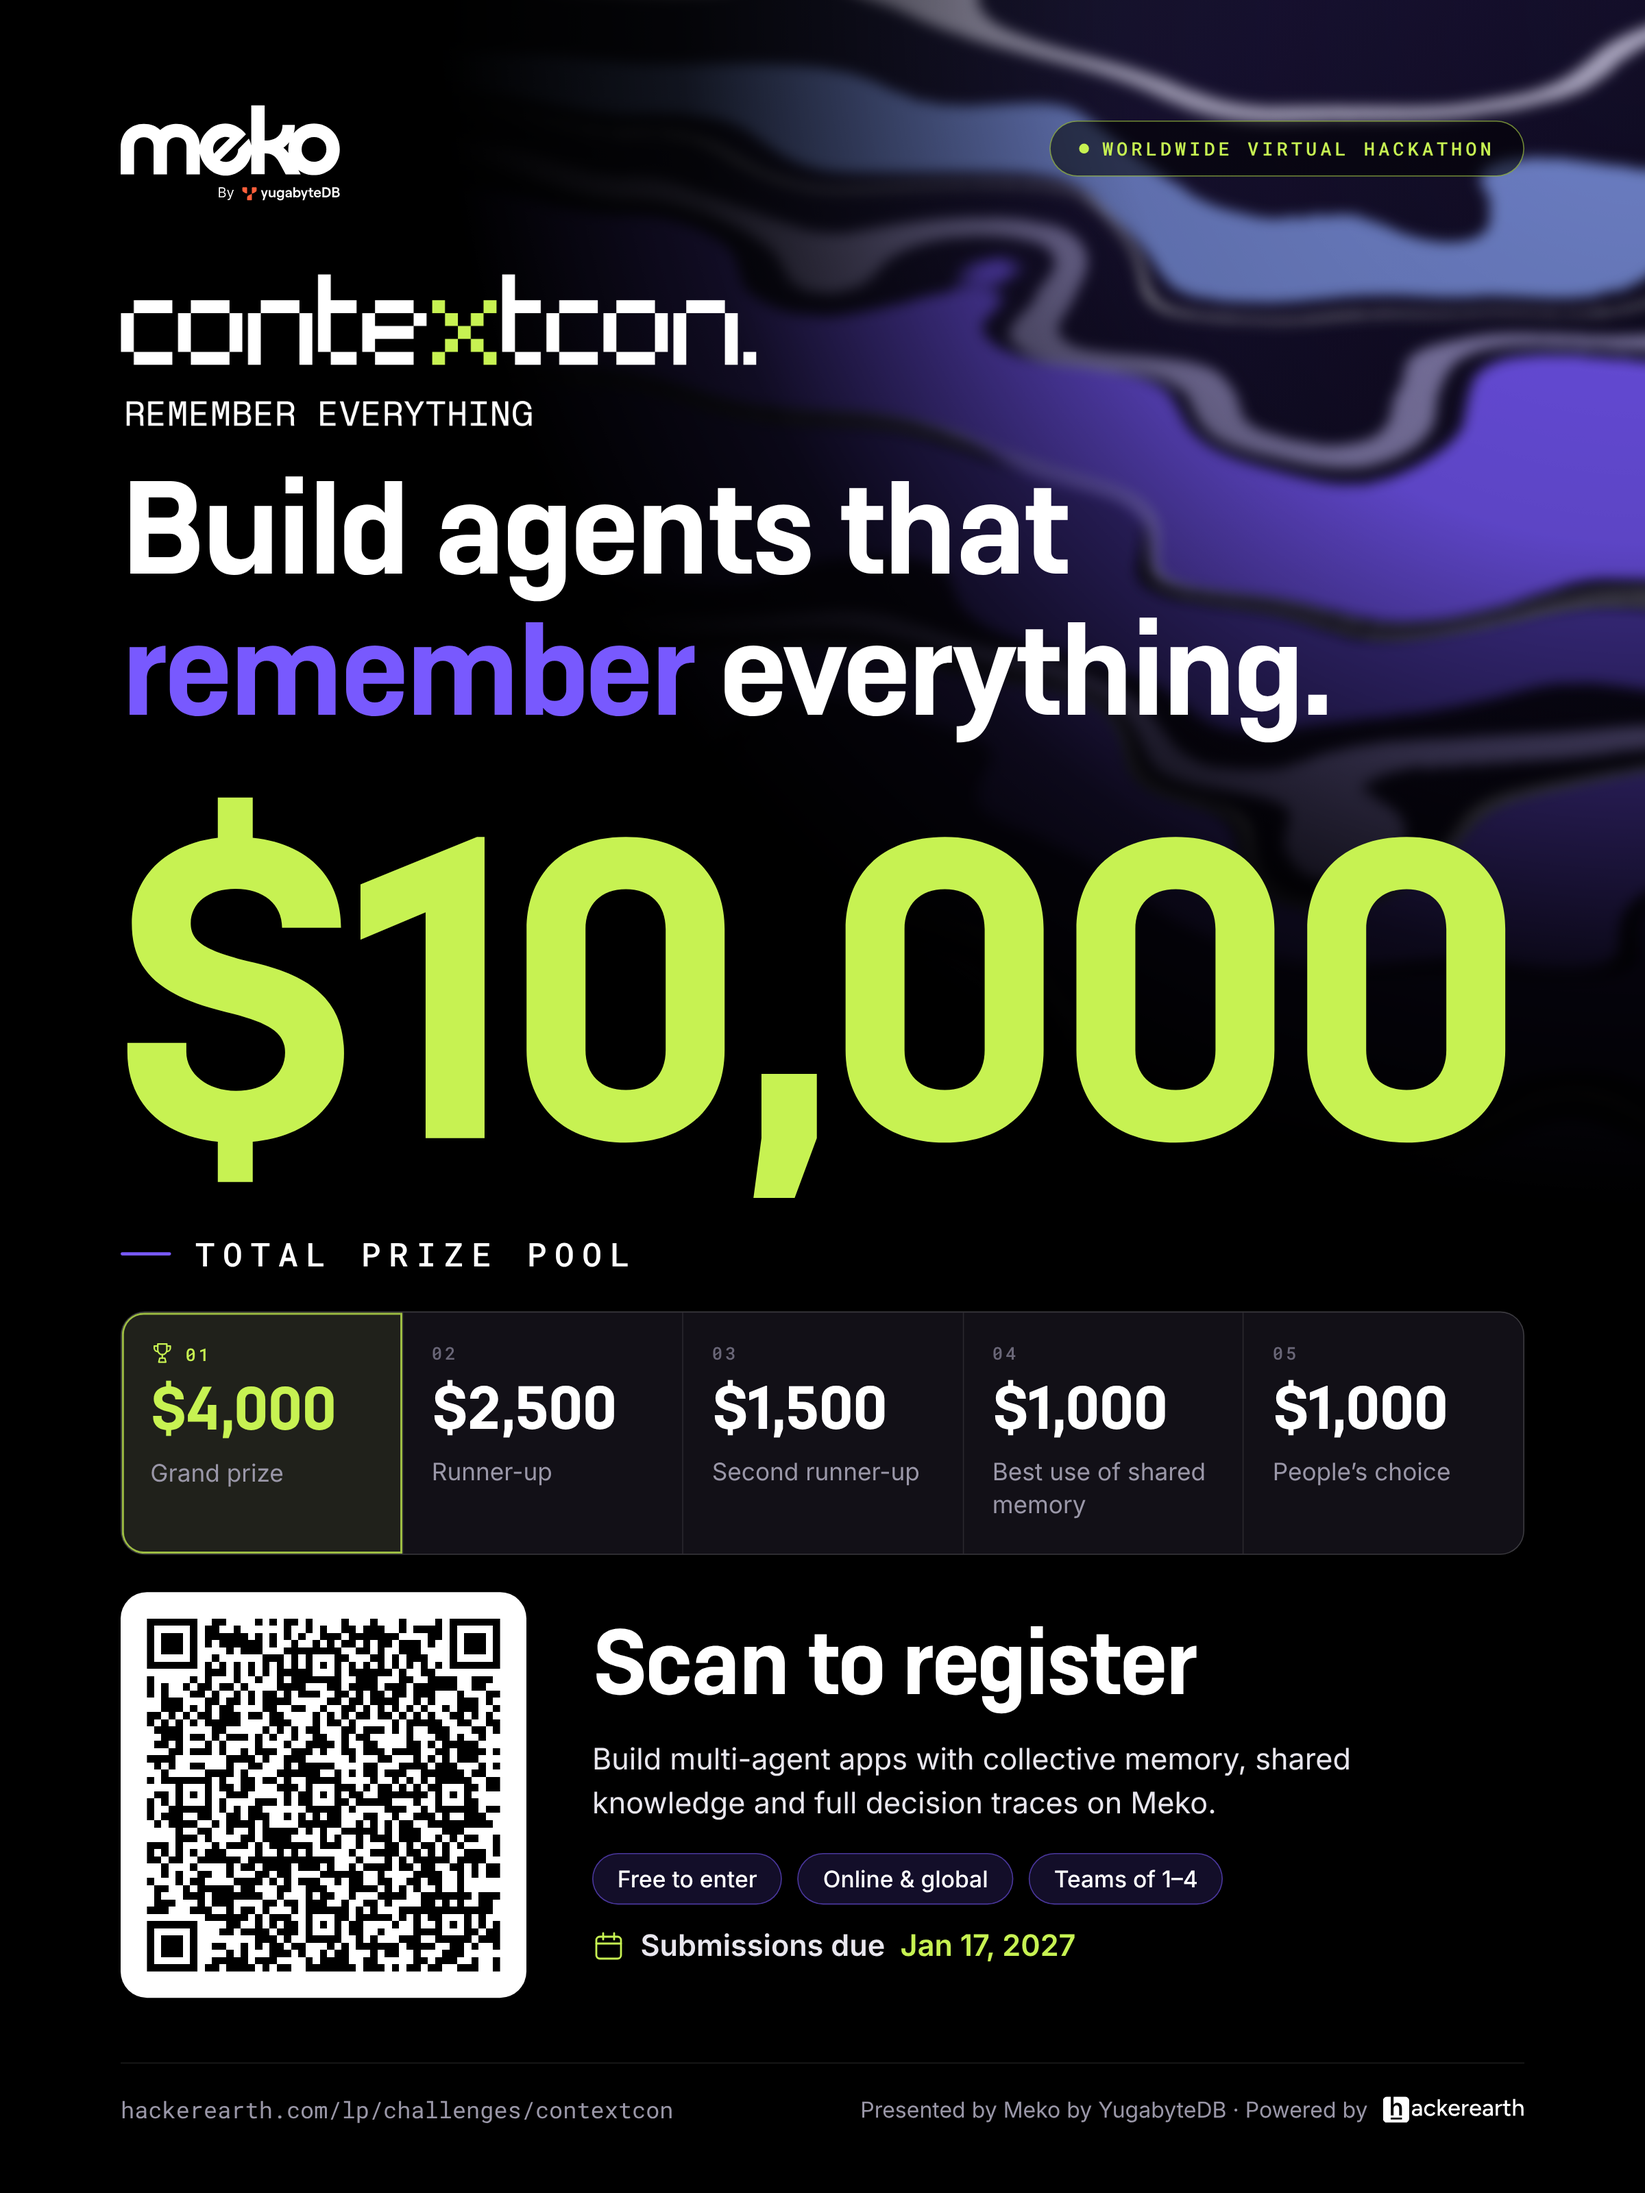
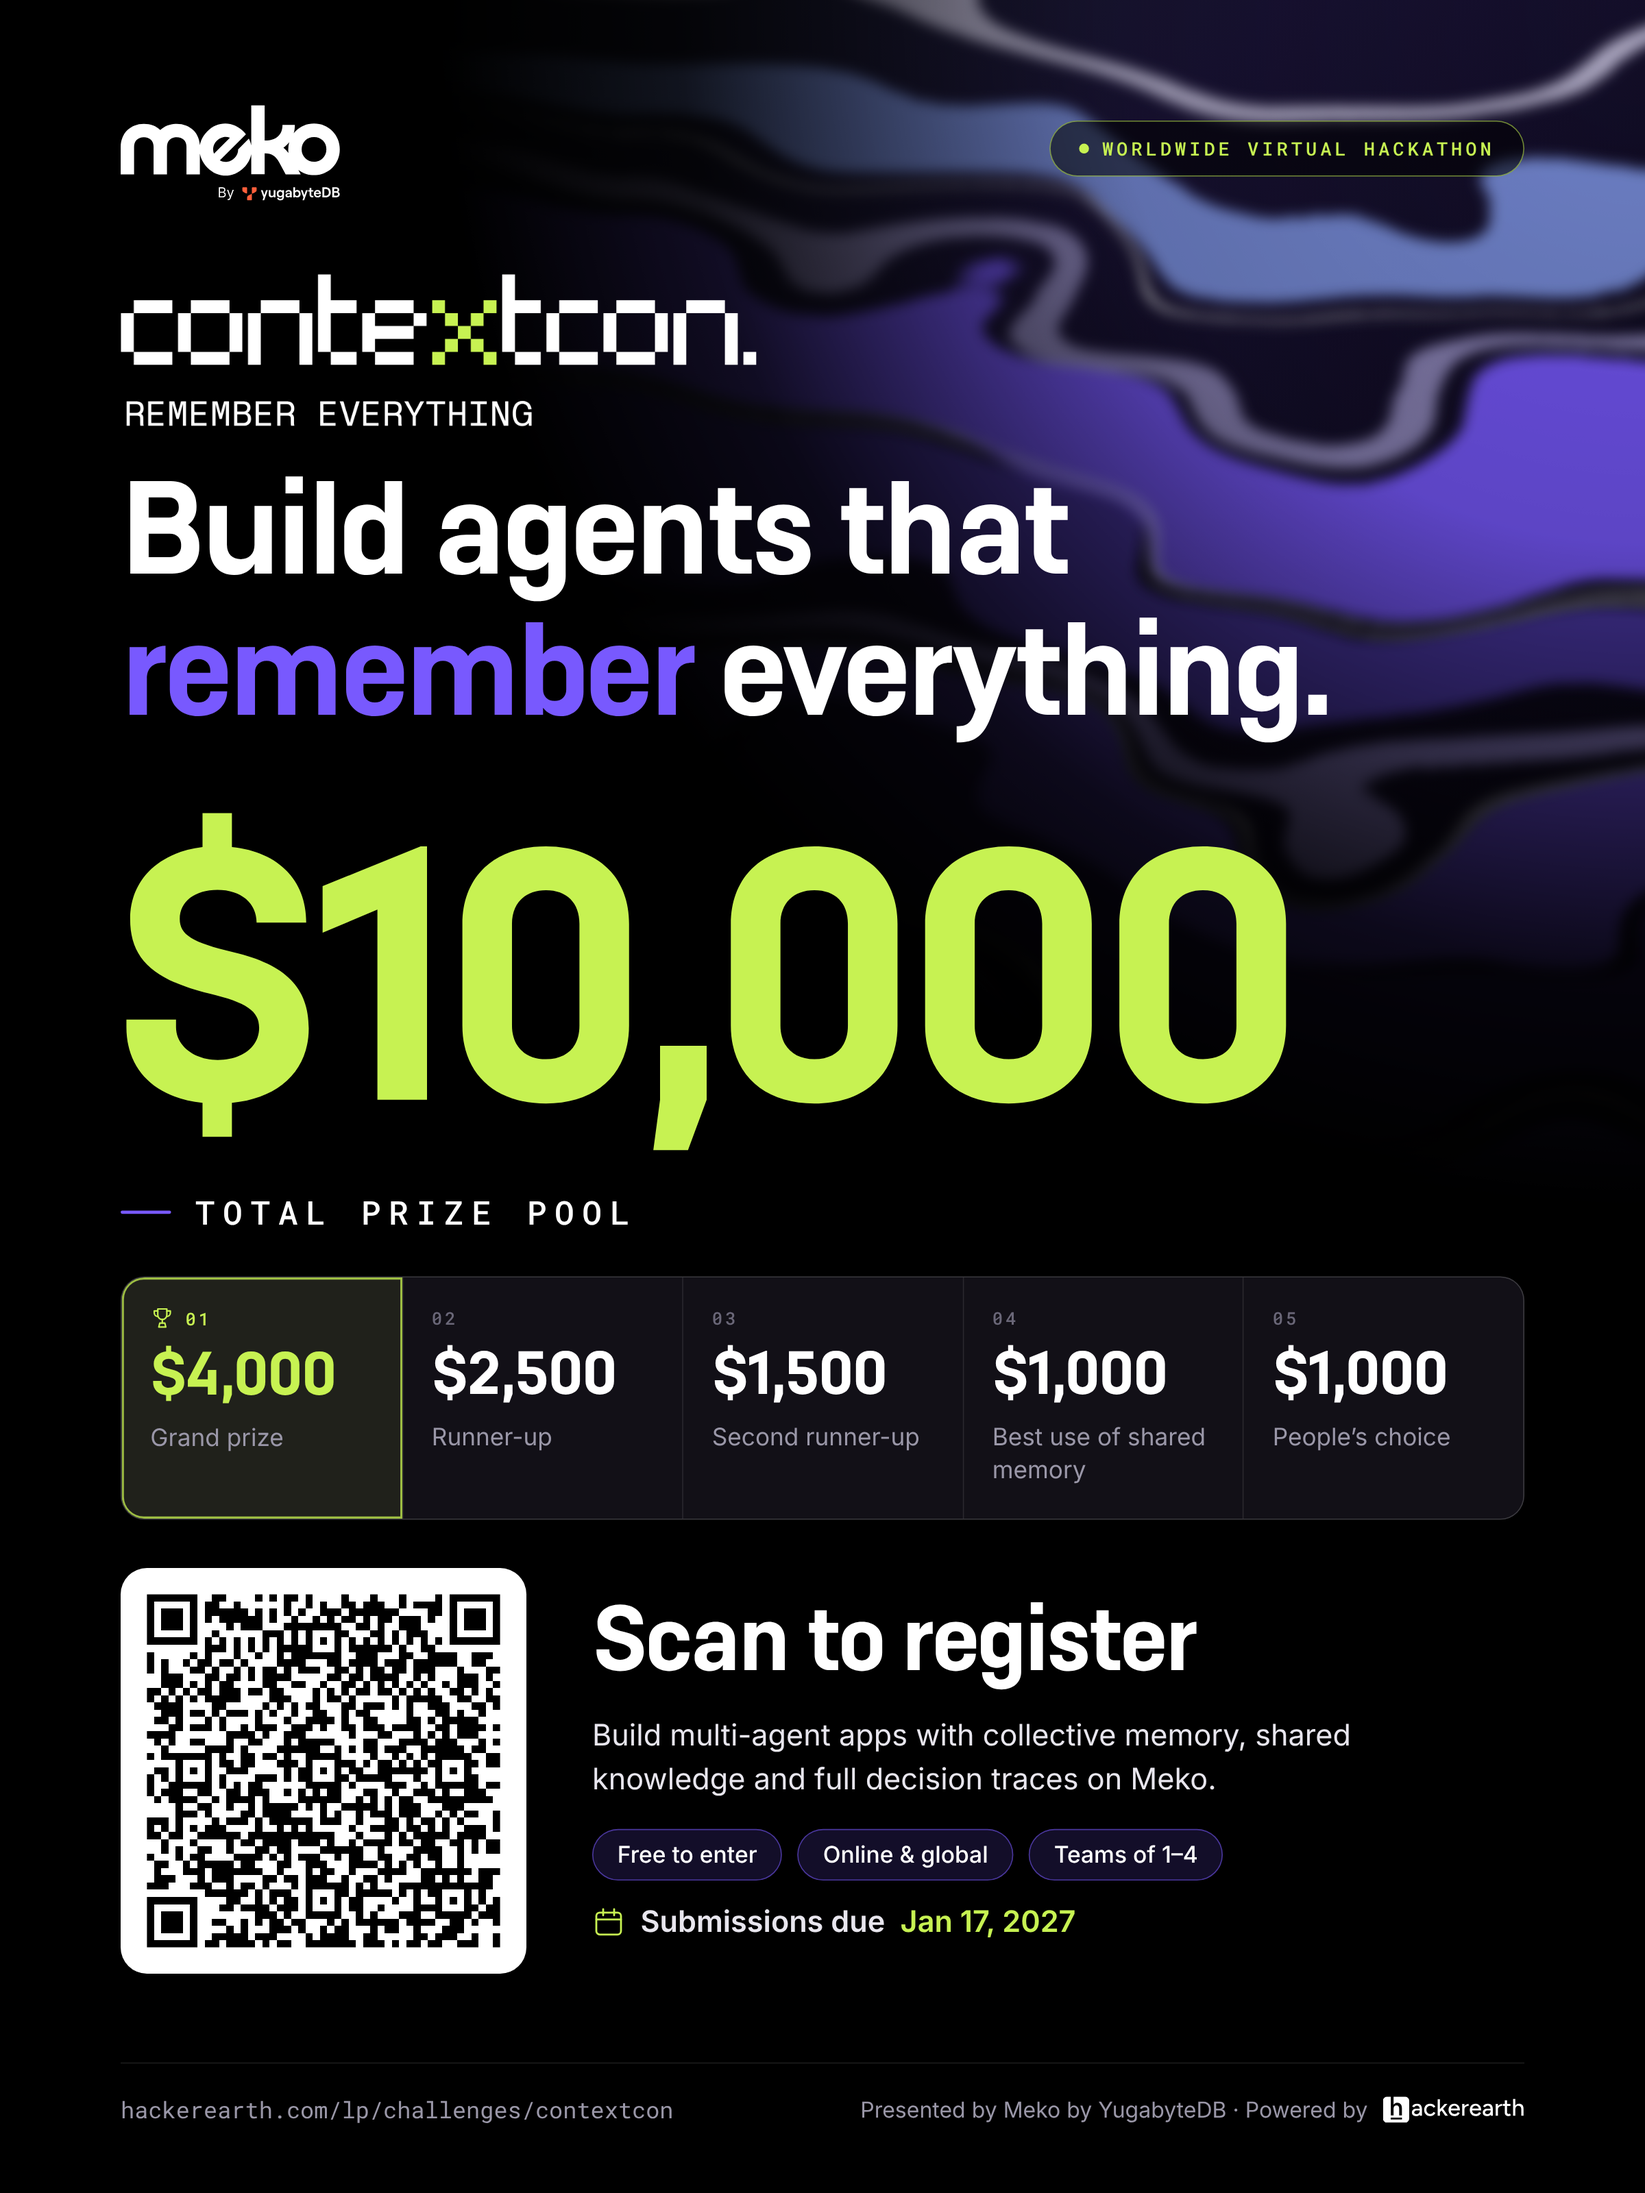
Prize poster: smaller $10,000 headline figure
Claude-Session: https://claude.ai/code/session_011WvSfbuXTc2R9BKwTF66Kj

diff --git a/banners/contextcon-poster-prizes-2400x3200.html b/banners/contextcon-poster-prizes-2400x3200.html
@@ -29,10 +29,10 @@ body{min-height:100vh;display:grid;place-items:center;-webkit-font-smoothing:ant
 .cc img{display:block;width:100%;height:auto}
 h1{position:absolute;left:0;top:428px;width:1200px;margin:0;font-family:'Bloka',var(--sans);font-weight:700;font-size:126px;line-height:1.02;letter-spacing:-.03em;color:var(--white)}
 h1 em{font-style:normal;color:var(--purple)}
-.big{position:absolute;left:-12px;top:764px;margin:0;font-family:'Bloka',var(--sans);font-weight:700;font-size:404px;line-height:.86;letter-spacing:-.035em;color:var(--lime)}
-.kick{position:absolute;left:0;top:1124px;margin:0;display:flex;align-items:center;gap:22px;font-family:var(--mono);font-weight:500;font-size:30px;letter-spacing:.24em;text-transform:uppercase;color:var(--white)}
+.big{position:absolute;left:-10px;top:772px;margin:0;font-family:'Bloka',var(--sans);font-weight:700;font-size:340px;line-height:.86;letter-spacing:-.035em;color:var(--lime)}
+.kick{position:absolute;left:0;top:1086px;margin:0;display:flex;align-items:center;gap:22px;font-family:var(--mono);font-weight:500;font-size:30px;letter-spacing:.24em;text-transform:uppercase;color:var(--white)}
 .kick::before{content:'';width:46px;height:3px;background:var(--purple);border-radius:2px}
-.tiles{position:absolute;left:0;right:0;top:1196px;display:grid;grid-template-columns:repeat(5,1fr);background:var(--panel);border:1.5px solid var(--line-2);border-radius:22px;overflow:hidden}
+.tiles{position:absolute;left:0;right:0;top:1164px;display:grid;grid-template-columns:repeat(5,1fr);background:var(--panel);border:1.5px solid var(--line-2);border-radius:22px;overflow:hidden}
 .tile{padding:26px 26px 30px;display:flex;flex-direction:column;gap:10px;min-height:206px}
 .tile + .tile{border-left:1.5px solid var(--line)}
 .tile.top{background:rgba(199,242,82,.08);box-shadow:inset 0 0 0 2px rgba(199,242,82,.75);border-radius:20px 0 0 20px}
@@ -42,7 +42,7 @@ h1 em{font-style:normal;color:var(--purple)}
 .amt{margin-top:6px;font-family:'Bloka',var(--sans);font-weight:700;font-size:58px;line-height:1;letter-spacing:-.02em;color:var(--white)}
 .tile.top .amt{color:var(--lime)}
 .lbl{font-size:22px;line-height:1.35;color:var(--muted)}
-.reg{position:absolute;left:0;right:0;top:1452px;display:flex;align-items:center;gap:60px}
+.reg{position:absolute;left:0;right:0;top:1430px;display:flex;align-items:center;gap:60px}
 .qr{flex:none;width:370px;height:370px;background:#fff;border-radius:24px;padding:24px}
 .qrsvg{display:block;width:100%;height:100%;shape-rendering:crispEdges}
 .regtxt h2{margin:0;font-family:'Bloka',var(--sans);font-weight:700;font-size:88px;line-height:1;letter-spacing:-.03em;color:var(--white)}
